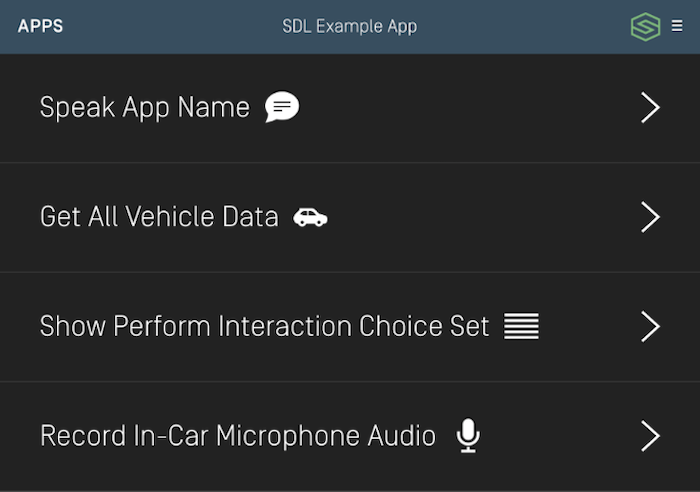
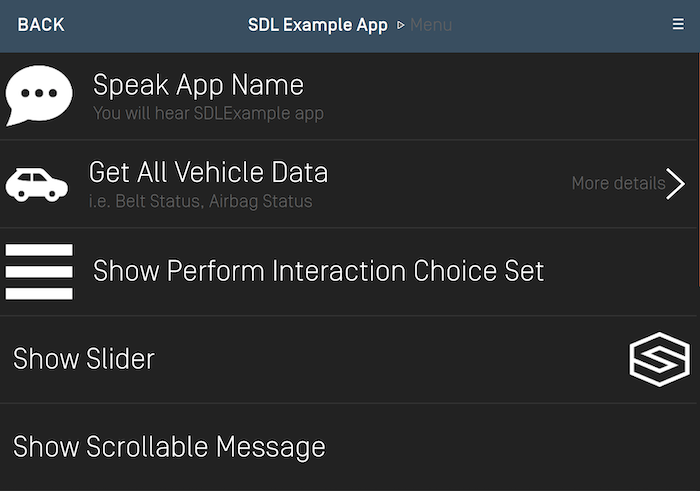
Documentation added
Code snippets update
Image update in Menu Template

diff --git a/docs/Displaying a User Interface/Main Menu/index.md b/docs/Displaying a User Interface/Main Menu/index.md
@@ -43,11 +43,13 @@ The best way to create and update your menu is to the use the Screen Manager API
 To find out more information on how to create `voiceCommands` see the [related documentation](Speech and Audio/Setting Up Voice Commands).
 !@
 
+Newer head units (RPC v7.1+) supports the implementation of secondaryText, tertiaryText and secondaryArtwork. This new feature is displayed [above](#menu-template).
+
 @![iOS]
 ##### Objective-C
 ```objc
 // Create the menu cell
-SDLMenuCell *cell = [[SDLMenuCell alloc] initWithTitle:<#NSString#> icon:<#SDLArtwork#> voiceCommands:<#@[NSString]#> handler:^(SDLTriggerSource  _Nonnull triggerSource) {
+SDLMenuCell *cell = [[SDLMenuCell alloc] initWithTitle:<#NSString#> icon:<#SDLArtwork#> voiceCommands:<#@[NSString]#> secondaryText:<#(nullable NSString *)#> tertiaryText:<#(nullable NSString *)#> secondaryArtwork:<#(nullable SDLArtwork *)#> handler:^(SDLTriggerSource  _Nonnull triggerSource) {
     // Menu item was selected, check the `triggerSource` to know if the user used touch or voice to activate it
     <#Handle the cell's selection#>
 }];
@@ -58,7 +60,7 @@ self.sdlManager.screenManager.menu = @[cell];
 ##### Swift
 ```swift
 // Create the menu cell
-let cell = SDLMenuCell(title: <#String#>, icon: <#SDLArtwork?#>, voiceCommands: <#[String]?#>) { (triggerSource: SDLTriggerSource) in
+let cell = SDLMenuCell(title: <#String#>, icon: <#SDLArtwork?#>, voiceCommands: <#[String]?#>, secondaryText: <#T##String?#>, tertiaryText: <#T##String?#>, secondaryArtwork: <#T##SDLArtwork?#>) { (triggerSource: SDLTriggerSource) in
     // Menu item was selected, check the `triggerSource` to know if the user used touch or voice to activate it
     <#Handle the cell's selection#>
 }
@@ -69,6 +71,7 @@ sdlManager.screenManager.menu = [cell]
 
 @![android, javaSE, javaEE]
 ```java
+// TODO: Update cell to the new constructor method that supports secondaryText, tertiaryText, secondaryArtwork
 // Create the menu cell
 MenuCell cell = new MenuCell("Cell text", null, Collections.singletonList("cell text"), new MenuSelectionListener() {
     @Override
@@ -91,31 +94,32 @@ Adding a submenu is as simple as adding subcells to a !@@![iOS]`SDLMenuCell`!@@!
 ##### Objective-C
 ```objc
 // Create the inner menu cell
-SDLMenuCell *cell = [[SDLMenuCell alloc] initWithTitle:<#NSString#> icon:<#SDLArtwork#> voiceCommands:<#@[NSString]#> handler:^(SDLTriggerSource  _Nonnull triggerSource) {
+SDLMenuCell *cell = [[SDLMenuCell alloc] initWithTitle:<#NSString#> icon:<#SDLArtwork#> voiceCommands:<#@[NSString]#> secondaryText:<#(nullable NSString *)#> tertiaryText:<#(nullable NSString *)#> secondaryArtwork:<#(nullable SDLArtwork *)#> handler:^(SDLTriggerSource  _Nonnull triggerSource) {
     // Menu item was selected, check the `triggerSource` to know if the user used touch or voice to activate it
     <#Handle the cell's selection#>
 }];
 
 // Create and set the submenu cell
-SDLMenuCell *submenuCell = [[SDLMenuCell alloc] initWithTitle:<#NSString#> icon:<#SDLArtwork?#> submenuLayout:<#SDLMenuLayout#>, subCells:@[cell]];
+SDLMenuCell *submenuCell = [[SDLMenuCell alloc] initWithTitle:<#NSString#> icon:<#SDLArtwork?#> submenuLayout:<#SDLMenuLayout#> subCells:@[cell] secondaryText:<#(nullable NSString *)#> tertiaryText:<#(nullable NSString *)#> secondaryArtwork:<#(nullable SDLArtwork *)#>];
 self.sdlManager.screenManager.menu = @[submenuCell];
 ```
 
 ##### Swift
 ```swift
 // Create the inner menu cell
-let cell = SDLMenuCell(title: <#String#>, icon: <#SDLArtwork?#>, voiceCommands: <#[String]?#>) { (triggerSource: SDLTriggerSource) in
+let cell = SDLMenuCell(title: <#String#>, icon: <#SDLArtwork?#>, voiceCommands: <#[String]?#>, secondaryText: <#T##String?#>, tertiaryText: <#T##String?#>, secondaryArtwork: <#T##SDLArtwork?#>) { (triggerSource: SDLTriggerSource) in
     // Menu item was selected, check the `triggerSource` to know if the user used touch or voice to activate it
     <#Handle the cell's selection#>
 }
 
-let submenuCell = SDLMenuCell(title: <#String#>, icon: <#SDLArtwork?#>, submenuLayout: <#SDLMenuLayout#>, subCells: [cell])
+let submenuCell = SDLMenuCell(title: <#String#>, icon: <#SDLArtwork?#>, submenuLayout: <#SDLMenuLayout#>, subCells: [cell], secondaryText: <#T##String?#>, tertiaryText: <#T##String?#>, secondaryArtwork: <#T##SDLArtwork?#>)
 sdlManager.screenManager.menu = [submenuCell]
 ```
 !@
 
 @![android, javaSE, javaEE]
 ```java
+// TODO: Update cell to the new constructor method that supports secondaryText, tertiaryText, secondaryArtwork
 // Create the inner menu cell
 MenuCell innerCell = new MenuCell("inner menu cell", null, Collections.singletonList("inner menu cell"), new MenuSelectionListener() {
     @Override
